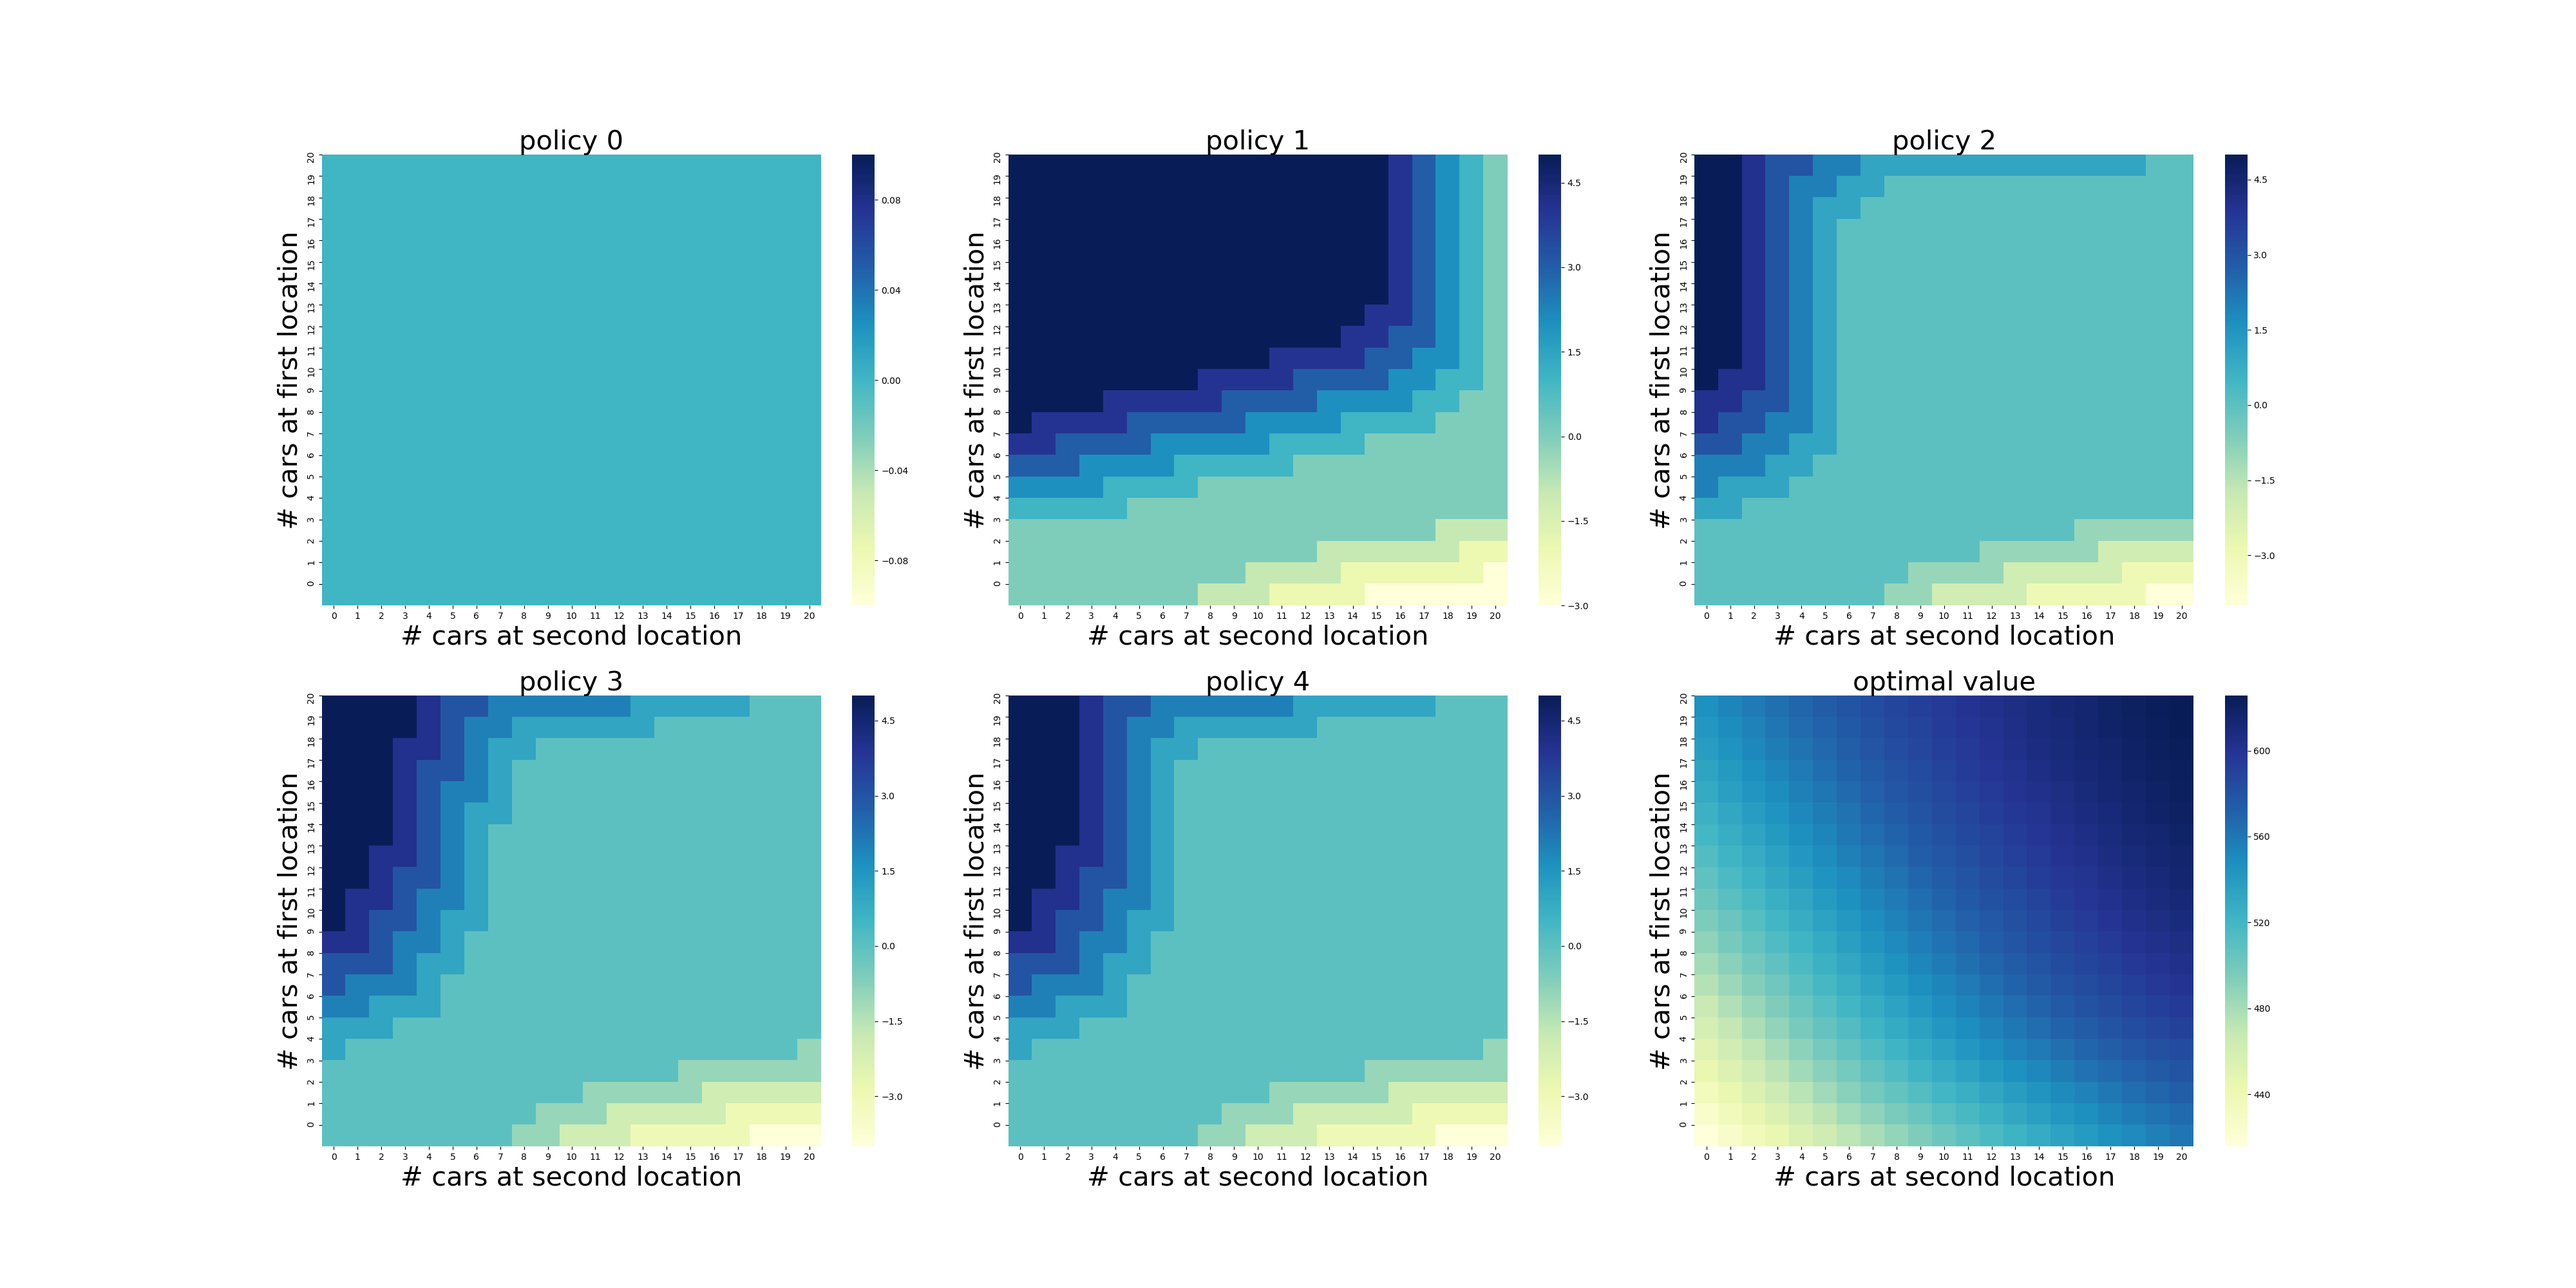
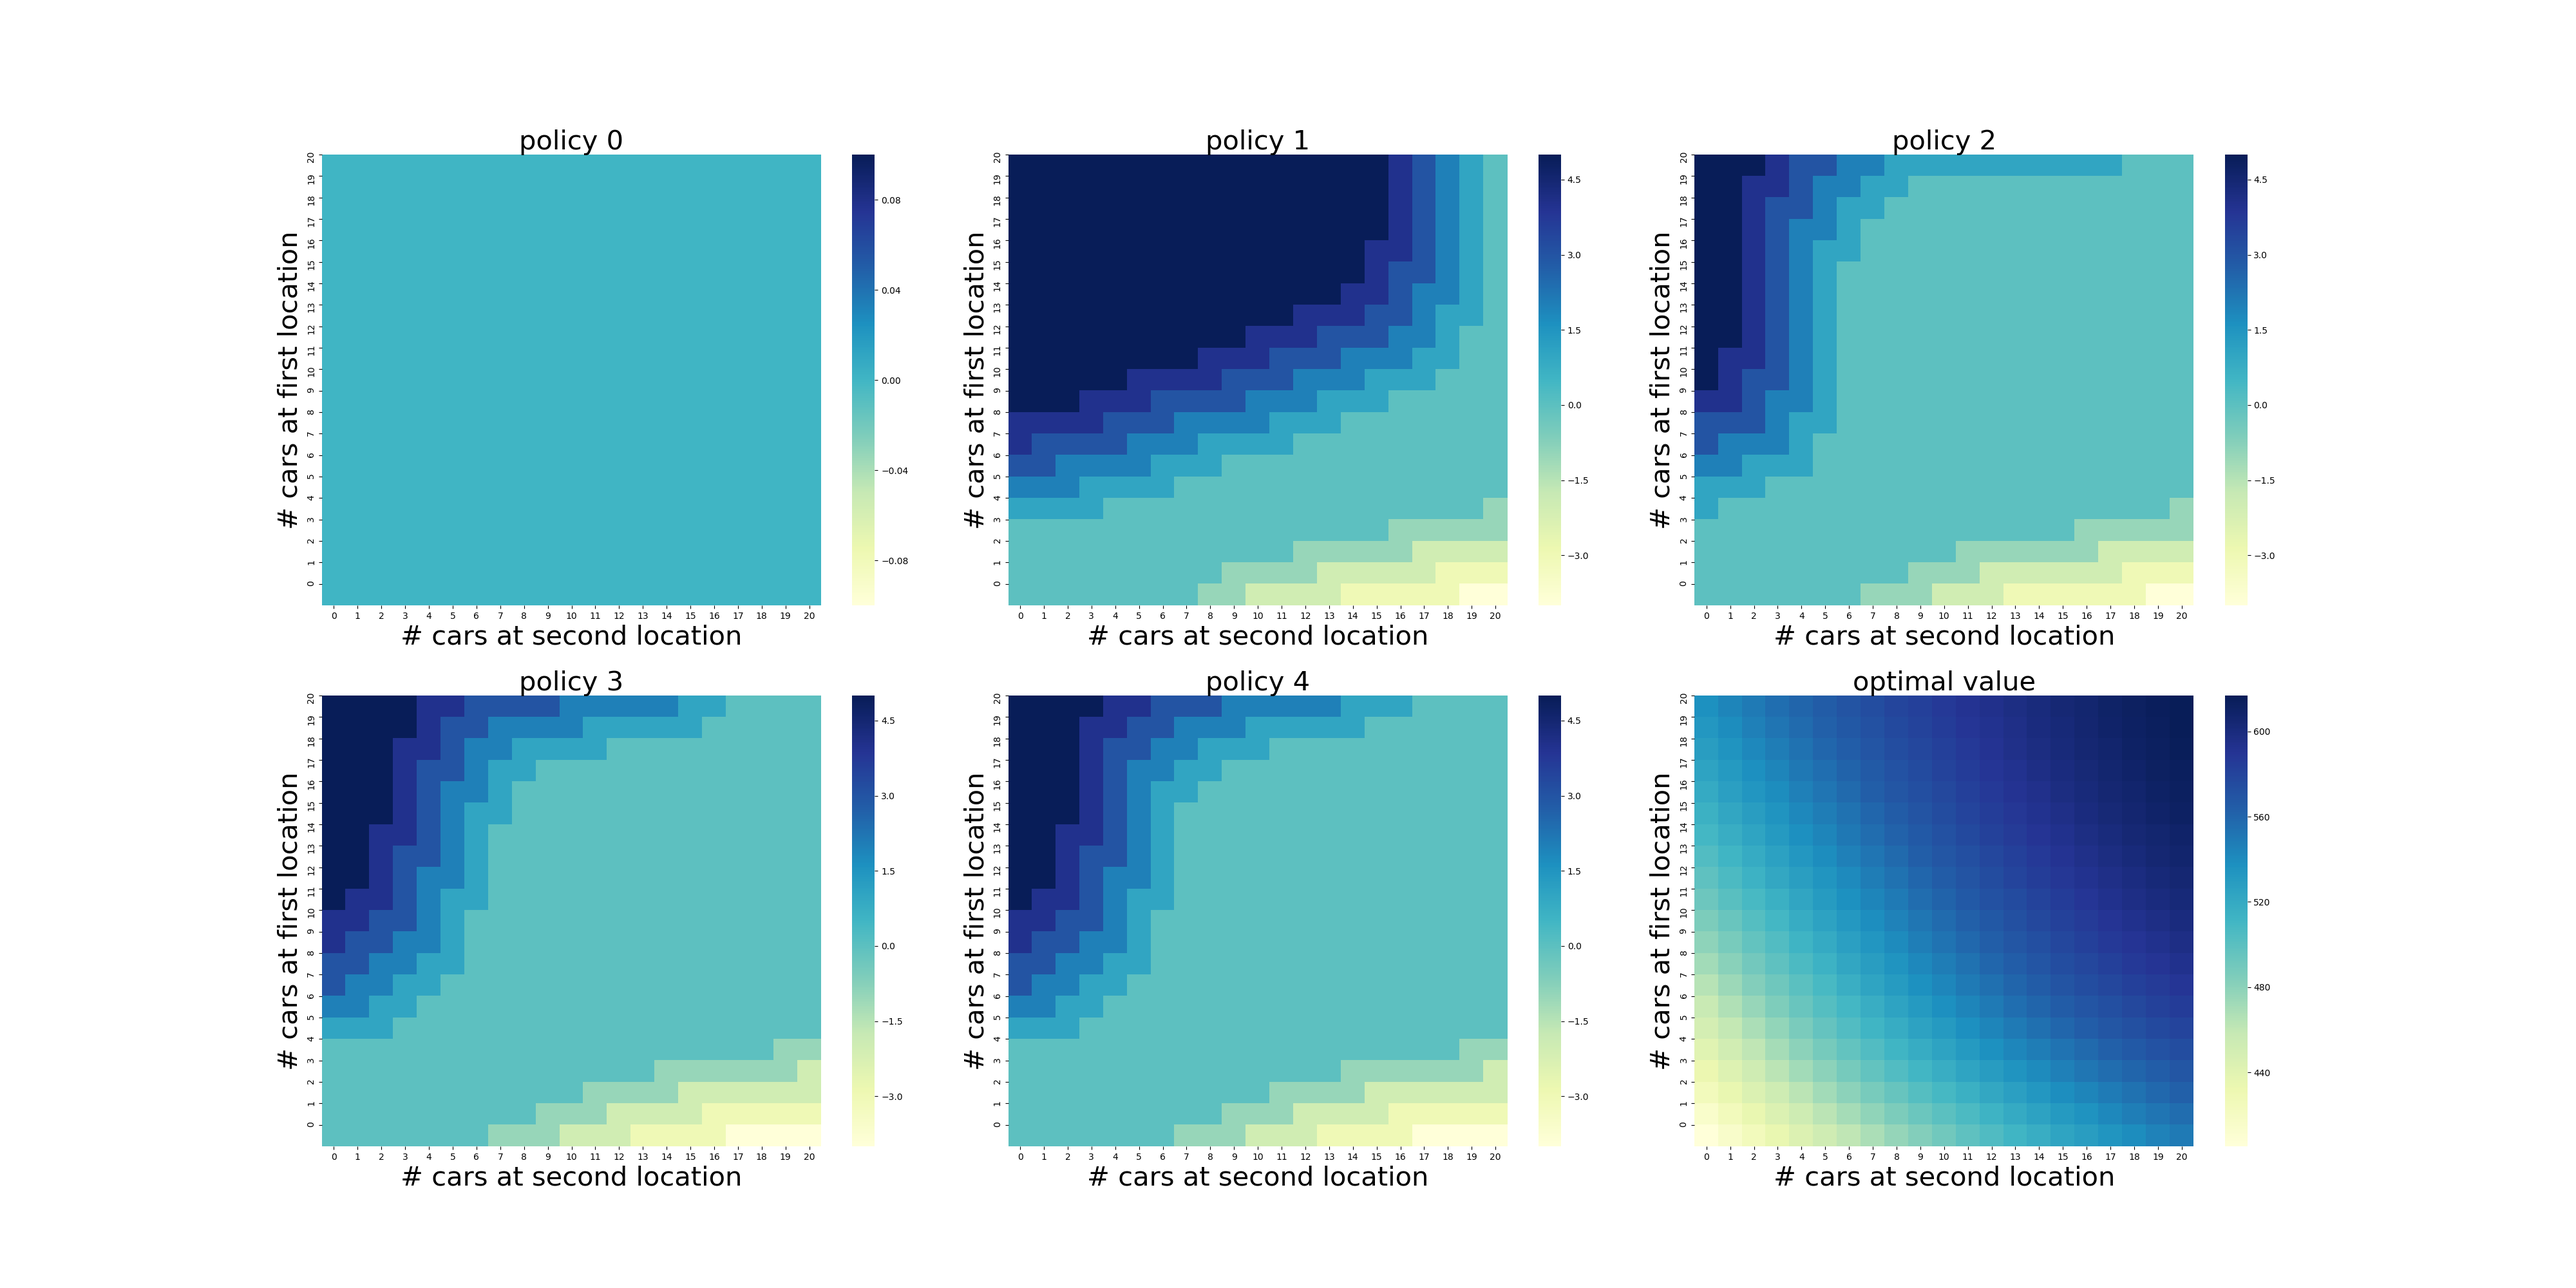
1

diff --git a/jackByShangtongZhang.py b/jackByShangtongZhang.py
@@ -109,7 +109,7 @@ def expected_return(state, action, state_value, constant_returned_cars):
                         returns += prob_ * (reward + DISCOUNT * state_value[num_of_cars_first_loc_, num_of_cars_second_loc_])
     return returns
 
-def figure_4_2(constant_returned_cars=True):
+def figure_4_2(constant_returned_cars=False):
     value = np.zeros((MAX_CARS + 1, MAX_CARS + 1))
     policy = np.zeros(value.shape, dtype=np.int)
 
